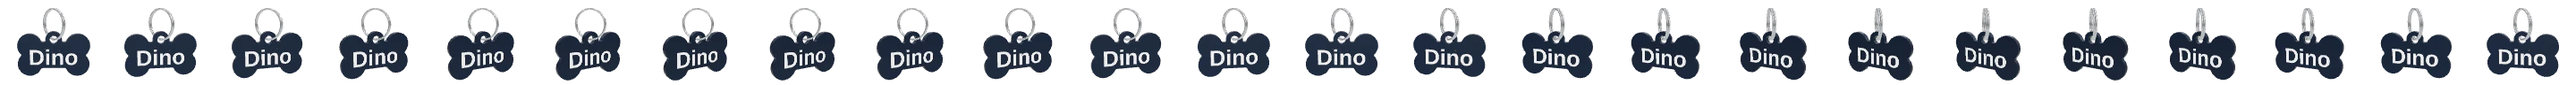
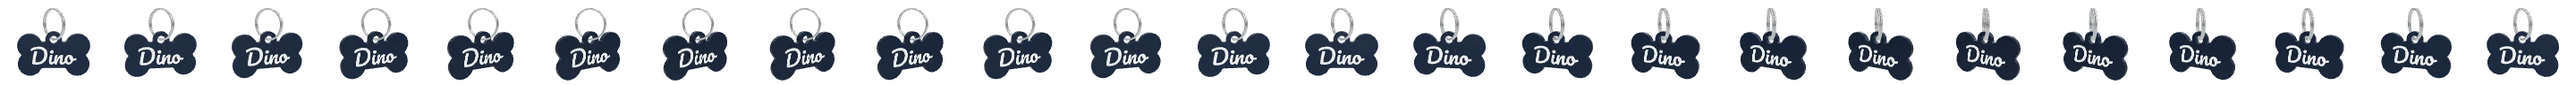
Pet tags start in Pacifico
A pet tag's name is set in the script face (Pacifico) by default; the
other shapes keep the plain sans, which suits a stencil's bridges and a
sign's light. Switching shape moves the face only if it was still the
last shape's own, so a face someone picked stays picked. The pet tile
icon is re-rendered in Pacifico to match.

Claude-Session: https://claude.ai/code/session_01PeehgHdDDPF9HxDfvra4HT

Changed region(s): [[0.0, 0.5312, 1.0, 0.7812]]

diff --git a/public/index.html b/public/index.html
@@ -2140,6 +2140,10 @@ function shapeChosen() {
   if (word && +rise.value === 0) { rise.value = 1.2; rise.dispatchEvent(new Event("input")); }
   if (!word && +rise.value === 1.2) { rise.value = 0; rise.dispatchEvent(new Event("input")); }
 }
+/* Each shape's starting face: the script for a pet's name, the plain sans for
+   the rest, whose strokes a stencil's bridges and a sign's light prefer. */
+const KIND_FONT = { fob: "sans", name: "sans", pet: "script", sign: "sans", stencil: "sans" };
+
 /* Each shape's starting colours: body, pattern, primary, secondary. */
 const INK = "#0c1a2e", INK_LIGHT = "#1f3a5f", PAPER = "#f5f2ec", FLAME = "#ff5b1f";
 const KIND_COLOURS = {
@@ -2152,10 +2156,19 @@ const KIND_COLOURS = {
 for (const tile of document.querySelectorAll(".tile"))
   tile.addEventListener("click", () => {
     if ($("kind").value === tile.dataset.kind) return;
+    const prevKind = $("kind").value;
     $("kind").value = tile.dataset.kind;
     for (const t of document.querySelectorAll(".tile"))
       t.setAttribute("aria-pressed", String(t === tile));
     shapeChosen();
+    // Each shape's own starting face -- Pacifico for a pet tag -- unless the
+    // face has been changed from the last shape's own, which is a choice.
+    const was = $("font").value;
+    if (was === KIND_FONT[prevKind] && KIND_FONT[tile.dataset.kind]) {
+      $("font").value = KIND_FONT[tile.dataset.kind];
+      faceChosen(was);
+      $("font").dataset.was = $("font").value;
+    }
     // Every shape starts in printyours.ca's colours -- ink navy, paper white,
     // flame orange -- arranged for that shape: a pet tag's phone number in
     // flame on ink, a keyring's letters in flame on an ink outline, a sign lit

diff --git a/src/gen_tile_icons.py b/src/gen_tile_icons.py
@@ -55,7 +55,7 @@ ICONS = {
     "name":    dict(build=lambda: nametag.build("Dino"),
                     colours=(INK, INK, FLAME, FLAME)),
     "pet":     dict(build=lambda: pettag.build("Dino", phone="(555) 214-8890",
-                                               shape="bone"),
+                                               shape="bone", font="script"),
                     colours=(INK, FLAME, PAPER, FLAME), ring=True),
     "sign":    dict(build=lambda: signbox.build("OPEN", lid=False, shape="letters"),
                     colours=(INK, INK, PAPER, PAPER), glow=("primary",)),
